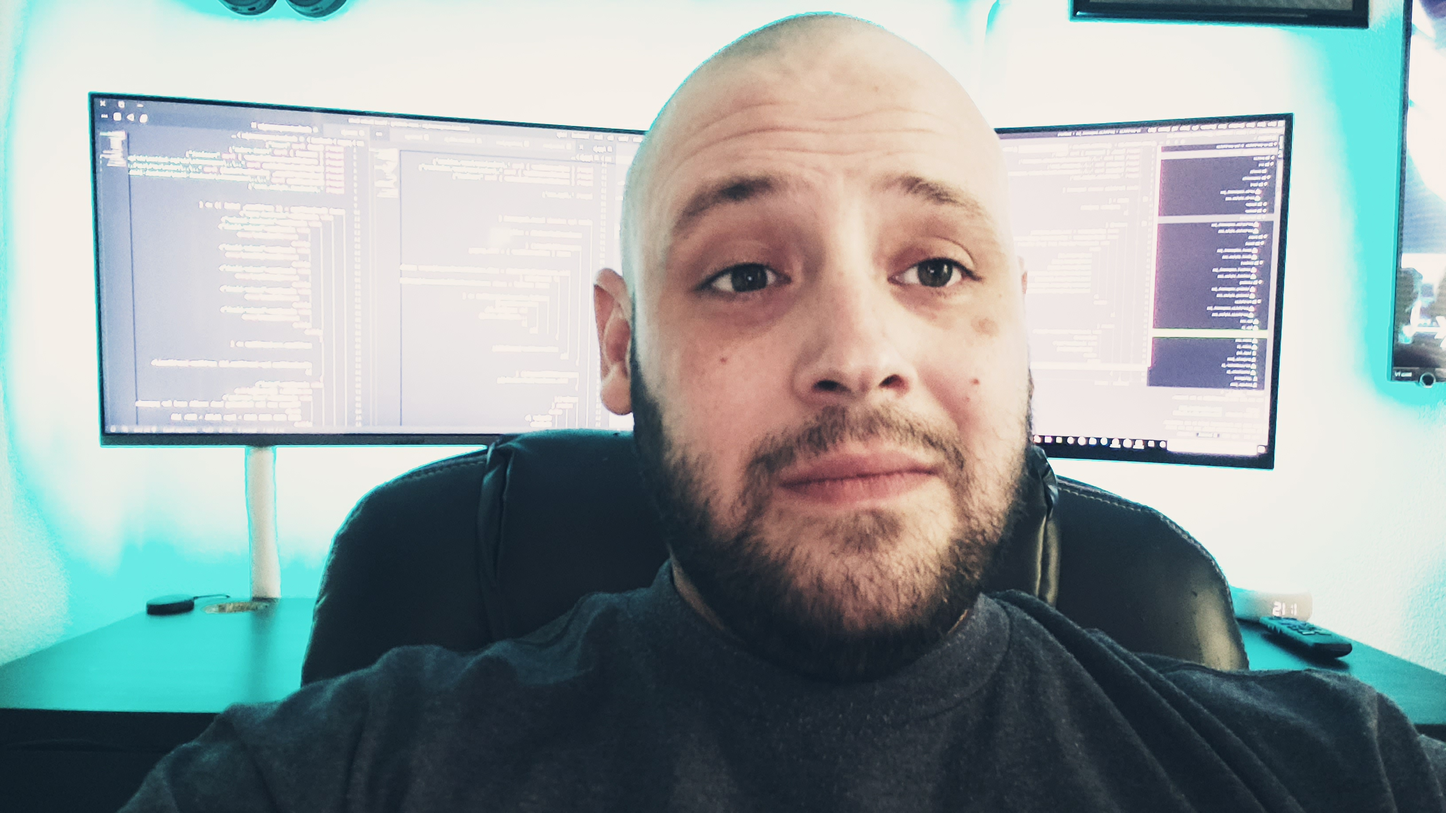
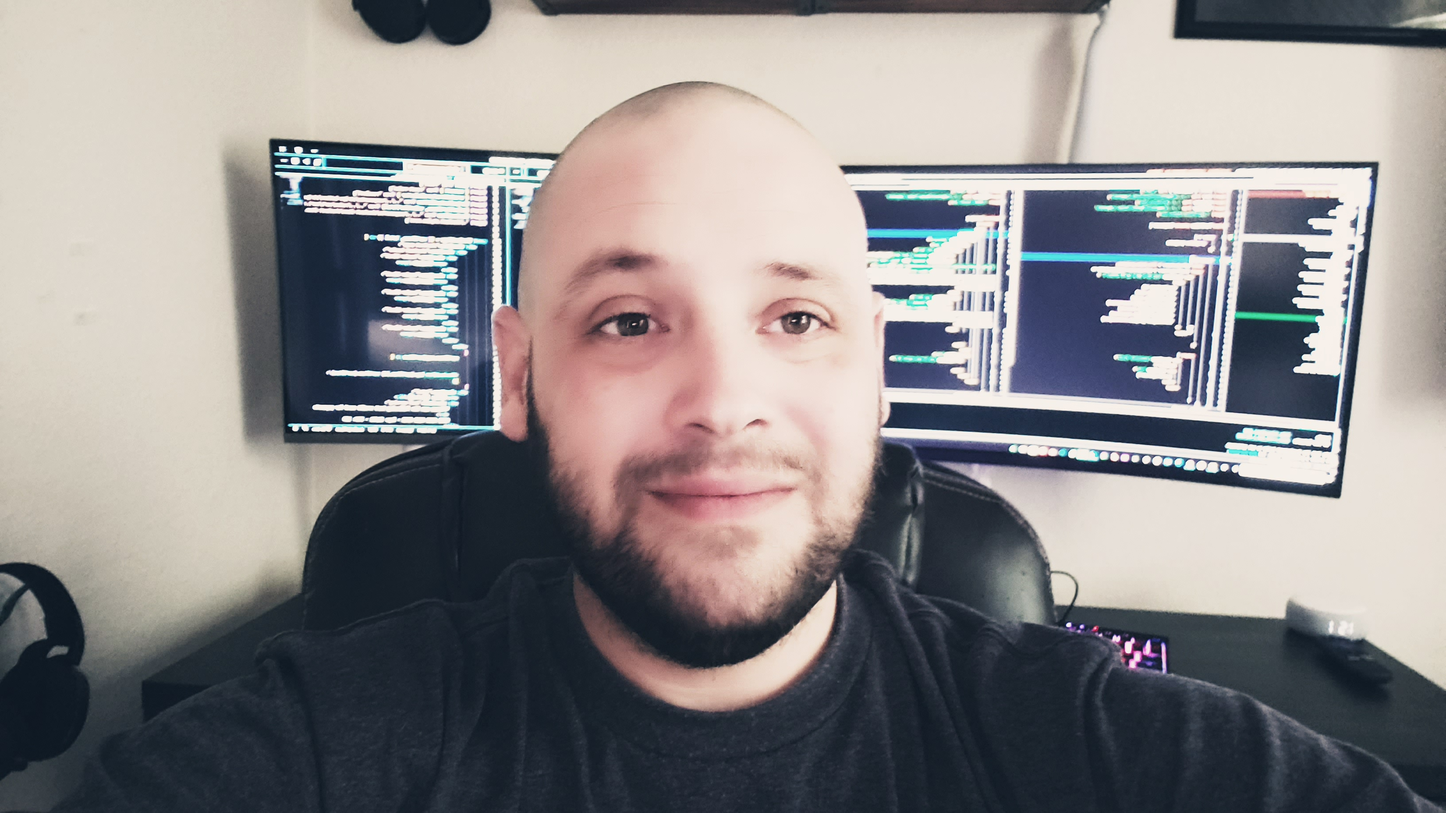
edited blurb on about page, changed photo, tested site

diff --git a/src/pages/About/about.component.jsx b/src/pages/About/about.component.jsx
@@ -14,6 +14,16 @@ function About() {
                         <h1 className='display-3 text-left'>About Me</h1>
                         <img className='myImage' src={kerry_smith} alt='Kerry'/>
                         <p className='about-text'>My name is Kerry Smith. I'm a full stack engineer with interests in front-end Javascript libraries and UI/UX design. When we can visualize the data the design develops naturally, with this concept in mind I find my most creative moments are dictated by the data I'm working with.</p>
+                      <div className='kerry-info'>
+                        <p>
+                          I'm from and currently live and work in the Bay Area. During college I became a bar tender to help pay for school and that taught me great inter-personal skills with many different people. After college, I began working for Vintrex Inc. I did your standard IT work taking care of more than 35 customers in the produce field. My duties include building and setting up new work-stations for individuals. Maintain their in house built by us Server. Managed their networks, SQL server, authentication, etc.</p>
+                          <div className='kerry-info'>
+                            <p className='about-text'>
+                              After that the company's name changed from Vintrex to Parsemony Inc. after the original owner retired. From there I started to get more remote duties and helped maintain customers online store by testing the site, setting up config files, SQL servers, maintaining their shopping cart on the cloud with services such as digital ocean, Amazon AWS, and ftp servers.
+                            </p>
+                          </div>
+
+                      </div>
                     </div>
                     <div className='col kerry'>
                         <h1 className='display-5 text-right'>Languages & Frameworks</h1>
@@ -29,7 +39,7 @@ function About() {
                             <li>Express.js</li>
                             <li>redux</li>
                             <li>Redux-form</li>
-                            <li>Python</li>
+                            <li>Python (work in progress...)</li>
                             <li>mysql & mongo_db</li>
                             <li>Firebase</li>
                             <li>Mongoose.js</li>

diff --git a/src/pages/About/about.styles.css b/src/pages/About/about.styles.css
@@ -22,8 +22,6 @@
     width: 25rem;
     margin-bottom: 2rem;
 
-
-
 }
 
 
@@ -33,6 +31,7 @@
 }
 
 
-li {
+.hobbies-text {
     font-family: 'Inconsolata', monospace;
+    font-size: 24px !important;
 }
